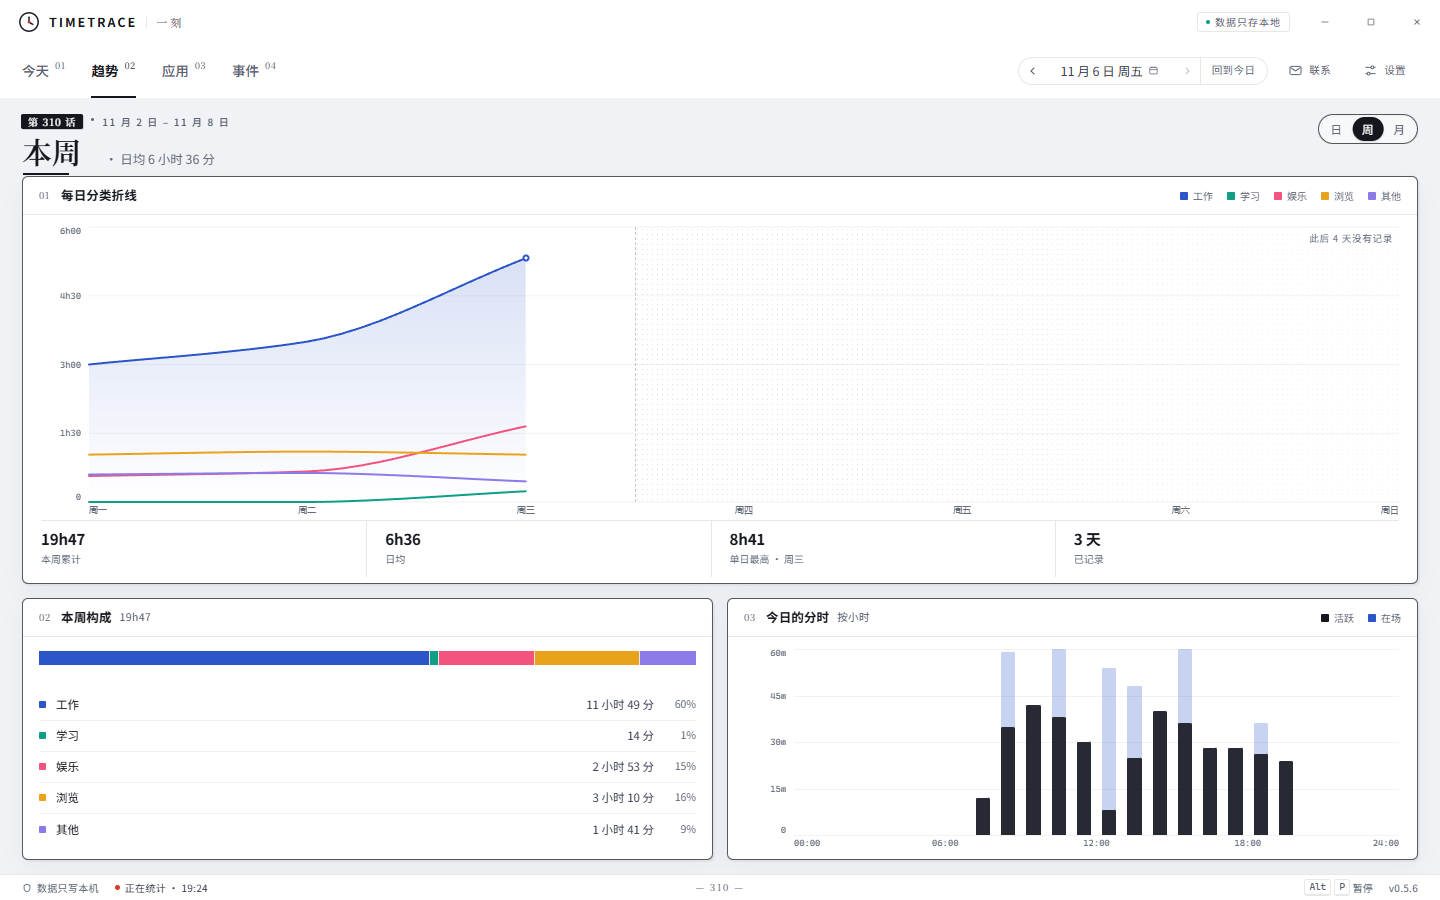
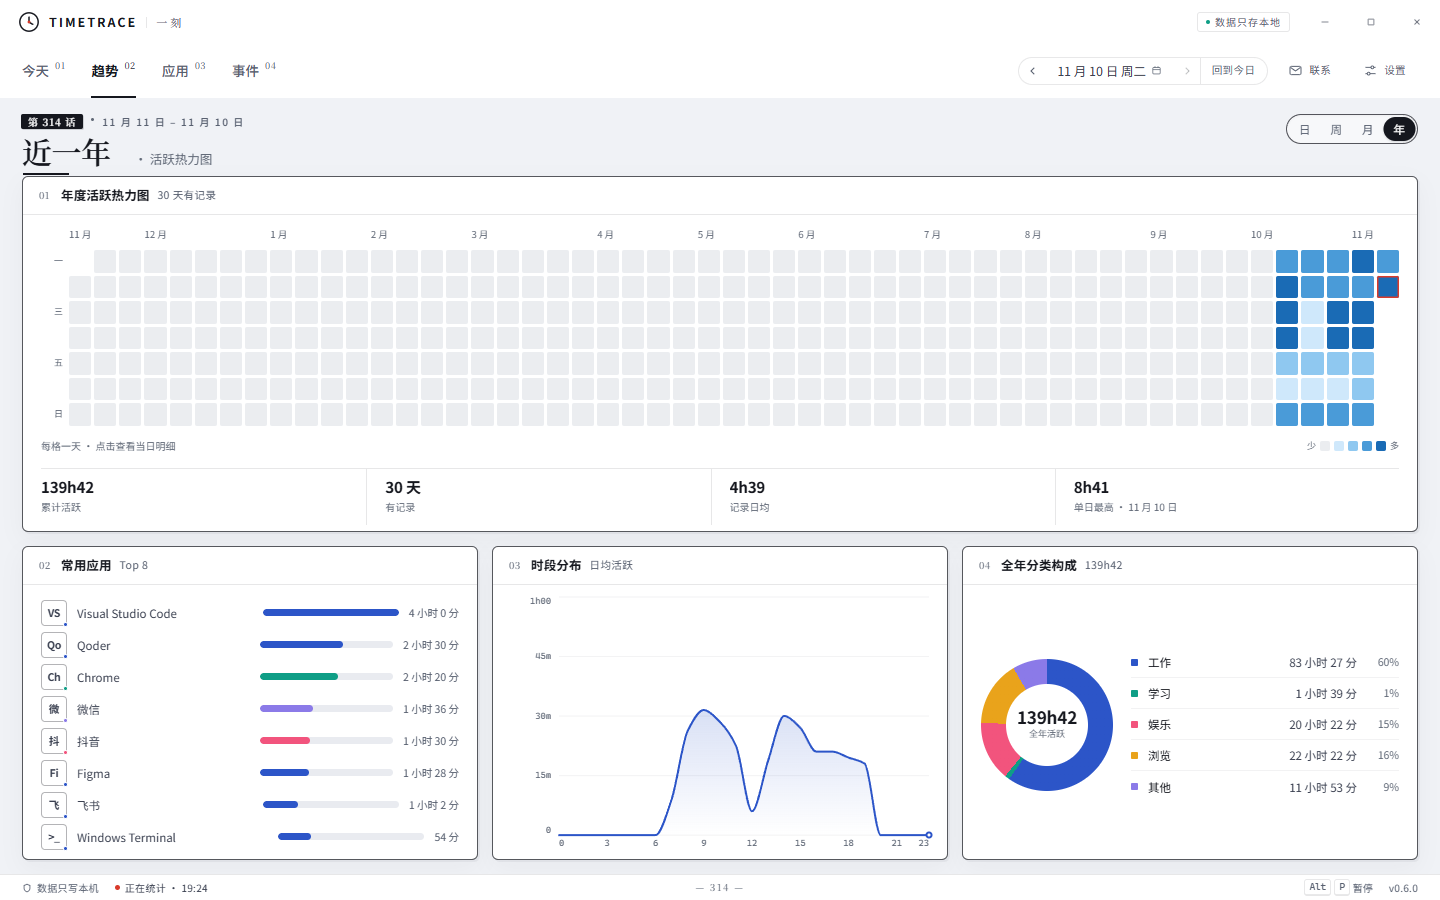
更新落地页到 v0.6.0：年度热力图配图与下载直链
- 版本号 / 日期 / 规格同步 0.6.0，下载入口改用 Gitee raw 直链
- 趋势配图换成年度热力图页，四张截图从 0.6.0 重新截取

diff --git a/index.html b/index.html
@@ -276,7 +276,7 @@ footer{margin-top:var(--gap-section);border-top:1px solid var(--hairline);paddin
       <a href="#faq">常见问题</a>
       <a href="#friends">友链</a>
     </nav>
-    <a class="btn btn-primary" href="https://gitee.com/zzjzgz/time-trace-code/releases/download/TimeTrace_0.5.6/TimeTrace_0.5.6_x64-setup.exe" target="_blank" rel="noopener noreferrer">下载 v0.5.6</a>
+    <a class="btn btn-primary" href="https://gitee.com/zzjzgz/time-trace-code/raw/master/releases/v0.6.0/TimeTrace_0.6.0_x64-setup.exe" target="_blank" rel="noopener noreferrer">下载 v0.6.0</a>
   </div>
 </header>
 
@@ -289,17 +289,17 @@ footer{margin-top:var(--gap-section);border-top:1px solid var(--hairline);paddin
       <h1 id="heroTitle">把电脑时间，记清楚。</h1>
       <p class="lede">TimeTrace 只做一件事：<strong>把你在各个应用上花的时间记清楚，并如实展示</strong>。它不评判效率，也不上传任何东西——所有记录都躺在你自己磁盘上的一个 SQLite 文件里，你随时可以打开、导出、搬走。</p>
       <div class="hero-actions">
-        <a class="btn btn-primary" href="https://gitee.com/zzjzgz/time-trace-code/releases/download/TimeTrace_0.5.6/TimeTrace_0.5.6_x64-setup.exe" target="_blank" rel="noopener noreferrer">下载 Windows 版
+        <a class="btn btn-primary" href="https://gitee.com/zzjzgz/time-trace-code/raw/master/releases/v0.6.0/TimeTrace_0.6.0_x64-setup.exe" target="_blank" rel="noopener noreferrer">下载 Windows 版
           <svg viewBox="0 0 24 24" fill="none" stroke="currentColor" stroke-width="1.8" stroke-linecap="round" stroke-linejoin="round" aria-hidden="true"><path d="M12 3v12m0 0 4-4m-4 4-4-4M4 19h16"/></svg>
         </a>
         <a class="btn btn-quiet" href="https://gitcode.com/weixin_51713937/TimeTrace" target="_blank" rel="noopener noreferrer">查看源码</a>
       </div>
-      <p class="hero-meta num">v0.5.6<span class="sep">·</span>2026-11-04<span class="sep">·</span>免安装单文件约 6 MB<span class="sep">·</span>Windows 10 / 11<span class="sep">·</span>完全免费</p>
+      <p class="hero-meta num">v0.6.0<span class="sep">·</span>2026-11-10<span class="sep">·</span>免安装单文件约 6 MB<span class="sep">·</span>Windows 10 / 11<span class="sep">·</span>完全免费</p>
     </div>
     <figure class="hero-art lift">
-      <img src="assets/screens/today.png" width="1440" height="900" data-img alt="TimeTrace 0.5.6「今天」视图：今日总时长 6 时 12 分、分类构成、使用最多的应用、系统事件与本周节奏">
+      <img src="assets/screens/today.png" width="1440" height="900" data-img alt="TimeTrace 0.6.0「今天」视图：今日总时长 6 时 12 分、分类构成、使用最多的应用、系统事件与本周节奏">
       <div class="img-fallback" role="status"><span>界面预览未能加载。</span><a href="https://gitee.com/zzjzgz/time-trace-code" target="_blank" rel="noopener noreferrer">到发布仓查看版本说明</a></div>
-      <figcaption class="source-badge"><span class="mark" aria-hidden="true"></span>界面截图 · 由当前构建 v0.5.6 实际运行截取</figcaption>
+      <figcaption class="source-badge"><span class="mark" aria-hidden="true"></span>界面截图 · 由当前构建 v0.6.0 实际运行截取</figcaption>
     </figure>
   </section>
 
@@ -342,7 +342,7 @@ footer{margin-top:var(--gap-section);border-top:1px solid var(--hairline);paddin
     <div class="block-head">
       <div class="kicker">四个视图</div>
       <h2 id="viewsTitle">从「今天」到「事件」，逐层看下去。</h2>
-      <p>顶部章节导航直接切换，也可以用 <span class="mono">#today</span> <span class="mono">#trend</span> <span class="mono">#apps</span> <span class="mono">#events</span> 直达。历史回看支持最近 90 天。</p>
+      <p>顶部章节导航直接切换，也可以用 <span class="mono">#today</span> <span class="mono">#trend</span> <span class="mono">#apps</span> <span class="mono">#events</span> 直达。历史回看支持最近 90 天；年度热力图覆盖最近一年。</p>
     </div>
     <div class="seg" id="viewSeg" data-active="0" role="tablist" aria-label="切换界面视图">
       <span class="seg-thumb" aria-hidden="true"></span>
@@ -353,13 +353,13 @@ footer{margin-top:var(--gap-section);border-top:1px solid var(--hairline);paddin
     </div>
     <div class="screen-stage" id="viewStage" role="tabpanel" aria-live="polite">
       <img class="is-active" src="assets/screens/today.png" width="1440" height="900" data-img alt="今天视图：今日总时长、分类构成、使用最多的应用、系统事件、本周节奏">
-      <img src="assets/screens/trend.png" width="1440" height="900" data-img alt="趋势视图：每日分类折线、本周构成、今日分时柱状图">
+      <img src="assets/screens/trend.png" width="1440" height="900" data-img alt="趋势视图（年）：年度活跃热力图、常用应用 Top 8、时段分布与全年分类构成">
       <img src="assets/screens/apps.png" width="1440" height="900" data-img alt="应用视图：按应用排行的时长列表">
       <img src="assets/screens/events.png" width="1440" height="900" data-img alt="事件视图：按时间顺序排列的系统事件流">
-      <div class="img-fallback" role="status"><span>界面预览未能加载。</span><a href="https://gitee.com/zzjzgz/time-trace-code/tree/master/releases/v0.5.6" target="_blank" rel="noopener noreferrer">到发布仓查看版本说明</a></div>
+      <div class="img-fallback" role="status"><span>界面预览未能加载。</span><a href="https://gitee.com/zzjzgz/time-trace-code/tree/master/releases/v0.6.0" target="_blank" rel="noopener noreferrer">到发布仓查看版本说明</a></div>
     </div>
     <p class="screen-cap" id="viewCap">今天：总时长、分类构成、使用最多的应用、系统事件与本周节奏，一屏看完。</p>
-    <p class="screen-note">以上界面截图由 TimeTrace v0.5.6 当前源码构建后实际运行截取；画面中的数据为内置演示快照，不是任何真实用户的记录。</p>
+    <p class="screen-note">以上界面截图由 TimeTrace v0.6.0 当前源码构建后实际运行截取；画面中的数据为内置演示快照，不是任何真实用户的记录。</p>
   </section>
 
   <!-- 数据属于你 -->
@@ -420,7 +420,7 @@ footer{margin-top:var(--gap-section);border-top:1px solid var(--hairline);paddin
       <h2 id="specTitle">一个小到不需要管理的程序。</h2>
     </div>
     <dl class="panel spec-grid">
-      <div class="spec-item"><dt>当前版本</dt><dd class="num">0.5.6<small>2026-11-04 发布</small></dd></div>
+      <div class="spec-item"><dt>当前版本</dt><dd class="num">0.6.0<small>2026-11-10 发布</small></dd></div>
       <div class="spec-item"><dt>体积</dt><dd>约 6 MB<small>免安装单文件，双击即用</small></dd></div>
       <div class="spec-item"><dt>技术栈</dt><dd>Tauri 2 · Rust · React 19<small>TypeScript · SQLite（rusqlite bundled）</small></dd></div>
       <div class="spec-item"><dt>运行平台</dt><dd>Windows 10 / 11（x64）<small>需要 Microsoft Edge WebView2 运行时</small></dd></div>
@@ -434,15 +434,15 @@ footer{margin-top:var(--gap-section);border-top:1px solid var(--hairline);paddin
     <div class="cta">
       <span class="orb orb-a" aria-hidden="true"></span><span class="orb orb-b" aria-hidden="true"></span>
       <div class="cta-in">
-        <div class="kicker">下载 · v0.5.6</div>
+        <div class="kicker">下载 · v0.6.0</div>
         <h2 id="downloadTitle">把时间留在自己手里。</h2>
         <p>一个安装包，点击即下载。完全免费，不需要注册，也不会问你要邮箱。</p>
         <div class="cta-actions">
-          <a class="glass-chip" href="https://gitee.com/zzjzgz/time-trace-code/releases/download/TimeTrace_0.5.6/TimeTrace_0.5.6_x64-setup.exe" target="_blank" rel="noopener noreferrer">下载安装向导 · setup.exe
+          <a class="glass-chip" href="https://gitee.com/zzjzgz/time-trace-code/raw/master/releases/v0.6.0/TimeTrace_0.6.0_x64-setup.exe" target="_blank" rel="noopener noreferrer">下载安装向导 · setup.exe
             <svg viewBox="0 0 24 24" fill="none" stroke="currentColor" stroke-width="1.8" stroke-linecap="round" stroke-linejoin="round" aria-hidden="true"><path d="M7 17 17 7M8 7h9v9"/></svg>
           </a>
         </div>
-        <p class="cta-note">点击即开始下载 v0.5.6 安装包。项目没有代码签名证书，Windows SmartScreen 可能提示「未知发布者」；安装前请先从托盘右键退出正在运行的 TimeTrace。需要免安装单文件或 MSI，请到发布仓的 v0.5.6 目录；历史版本与更新清单也在同一个仓库。</p>
+        <p class="cta-note">点击即开始下载 v0.6.0 安装包。项目没有代码签名证书，Windows SmartScreen 可能提示「未知发布者」；安装前请先从托盘右键退出正在运行的 TimeTrace。需要免安装单文件或 MSI，请到发布仓的 <a href="https://gitee.com/zzjzgz/time-trace-code/tree/master/releases/v0.6.0" target="_blank" rel="noopener noreferrer">v0.6.0 目录</a>；历史版本与更新清单也在同一个仓库。</p>
       </div>
     </div>
   </section>
@@ -504,7 +504,7 @@ footer{margin-top:var(--gap-section);border-top:1px solid var(--hairline);paddin
   var frames = Array.prototype.slice.call(stage.querySelectorAll('img'));
   var captions = [
     '今天：总时长、分类构成、使用最多的应用、系统事件与本周节奏，一屏看完。',
-    '趋势：日 / 周 / 月三套图表，柱子和折线都可以点开看详情。',
+    '趋势：日 / 周 / 月 / 年四档；年度热力图逐日点亮，下面接着常用应用、时段分布与全年分类构成。',
     '应用：按应用排行，点任意一行看它「日 / 周 / 30 天」的时间线。',
     '事件：完整的系统事件流，按类型区分，时间去了哪里一目了然。'
   ];

diff --git a/README.md b/README.md
@@ -11,15 +11,15 @@ TimeTrace 是一款**本地优先的 Windows 应用使用时长统计工具**：
 | 官网 | <https://zzjzgz.github.io> |
 | 应用源码 | <https://gitcode.com/weixin_51713937/TimeTrace> |
 | 安装包 / 历史版本 / 更新清单 | <https://gitee.com/zzjzgz/time-trace-code> |
-| v0.5.6 安装向导（直链） | <https://gitee.com/zzjzgz/time-trace-code/releases/download/TimeTrace_0.5.6/TimeTrace_0.5.6_x64-setup.exe> |
-| 当前版本 | 0.5.6（2026-11-04） |
+| v0.6.0 安装向导（直链） | <https://gitee.com/zzjzgz/time-trace-code/raw/master/releases/v0.6.0/TimeTrace_0.6.0_x64-setup.exe> |
+| 当前版本 | 0.6.0（2026-11-10） |
 | 源码许可 | 木兰宽松许可证第 2 版 |
 
 ## 仓库结构
 
 ```
 index.html                  零构建单文件官网，双击可开
-assets/screens/             四张产品界面截图：今天 / 趋势 / 应用 / 事件
+assets/screens/             四张产品界面截图：今天 / 年度趋势 / 应用 / 事件
 assets/friends/             友链 logo（本地化，保证零外链资源）
 screenshots/                官网截图：1366 / 1440 / 1920 三档整页 + 首屏 + 友链特写
 tokens.json                 设计令牌，由 index.html 的 :root 自动抽取
@@ -46,7 +46,7 @@ python -m http.server 8080
 
 ## 截图从哪来
 
-`assets/screens/` 不是历史遗留素材，是从 TimeTrace **v0.5.6 当前源码重新构建后实际运行截取**的：
+`assets/screens/` 不是历史遗留素材，是从 TimeTrace **v0.6.0 当前源码重新构建后实际运行截取**的：
 
 ```bash
 # 在 TimeTrace/app 目录下
@@ -78,4 +78,4 @@ python _workflow/extract_tokens.py      # 从 :root 重生成 tokens.json
 
 ## 维护提示
 
-**版本号、四张产品截图、下载直链是绑定的**：发布新版本时三处必须同步更新，否则页面会「说谎」。顶层 `TimeTrace/README.md` 的下载表目前仍写 0.5.5，本仓库按 0.5.6，建议一并同步。
+**版本号、四张产品截图、下载直链是绑定的**：发布新版本时三处必须同步更新，否则页面会「说谎」。下载直链当前指向 Gitee 发布仓的 raw 文件（`releases/vX.Y.Z/`）；发版后可用 `curl -L` 核对 200 与 SHA256。
